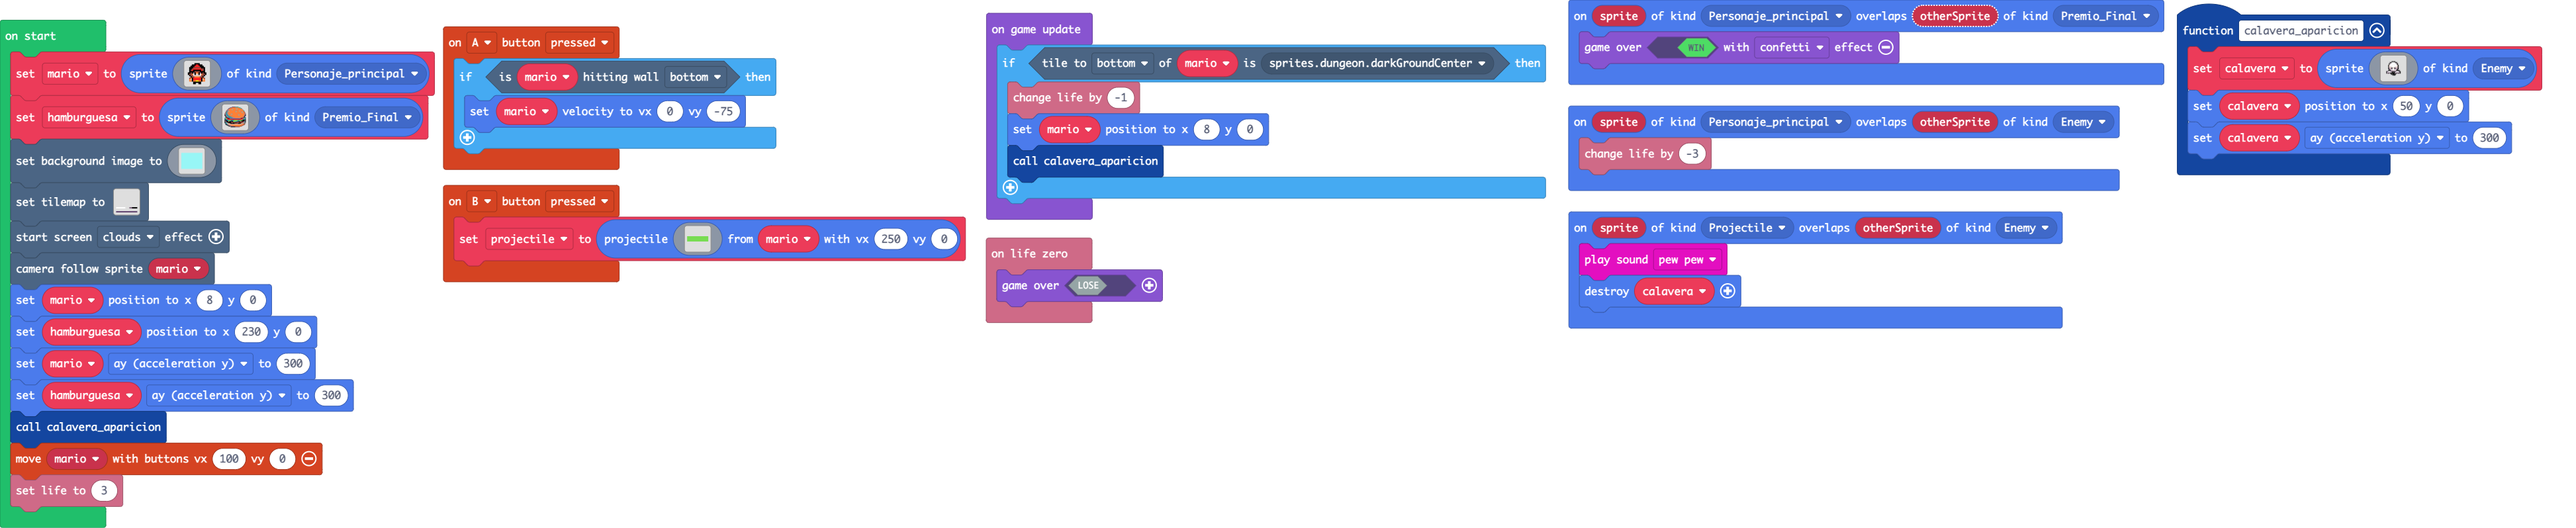
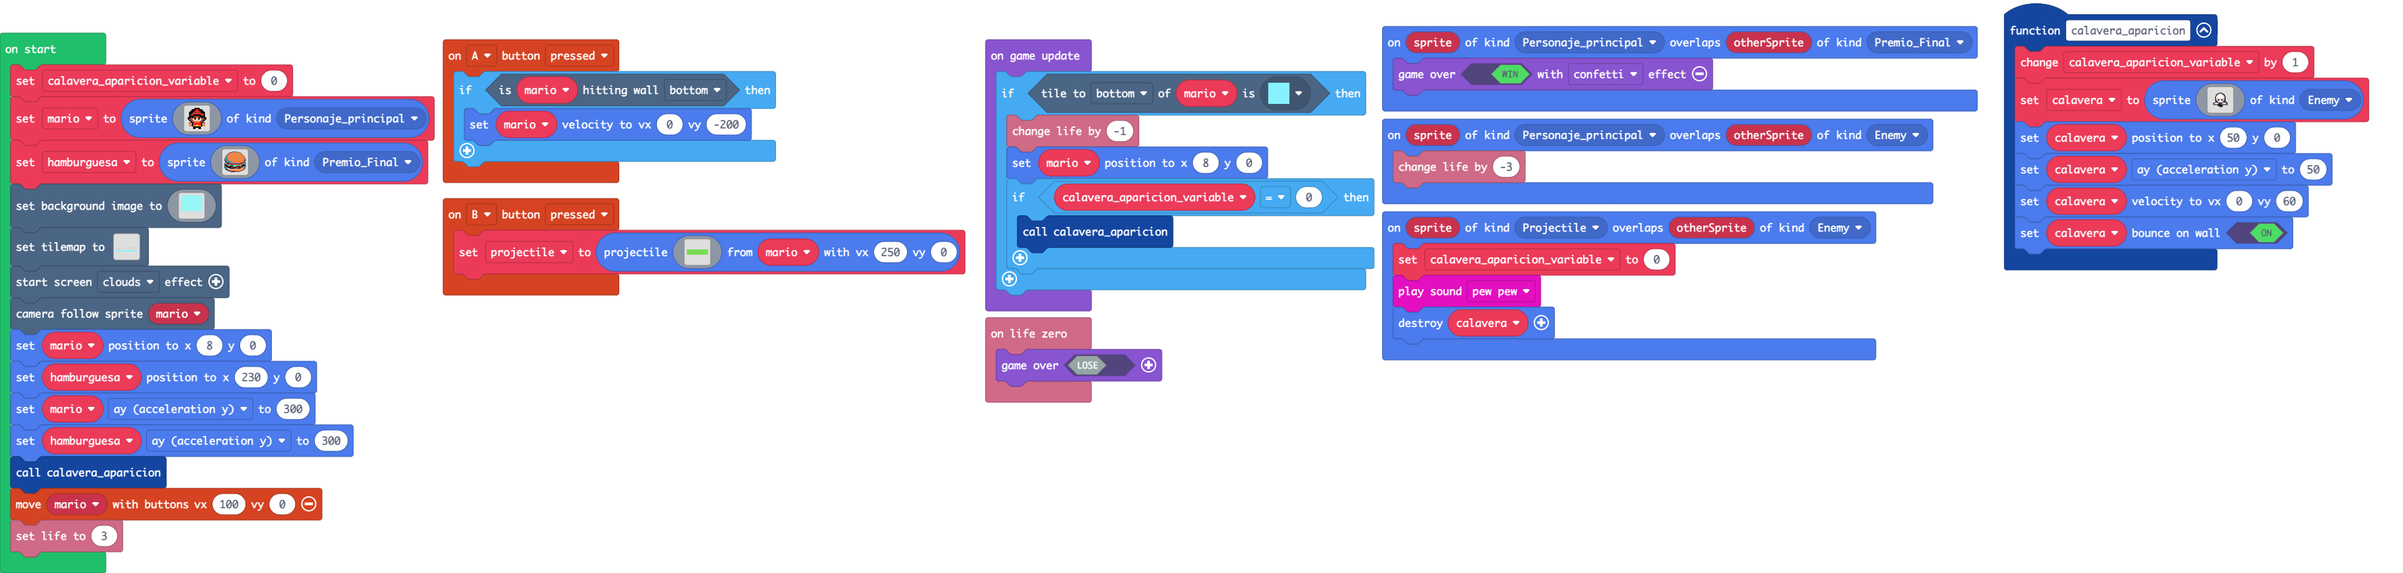
Update pxt.json, main.blocks, main.ts, tilemap.g.jres, tilemap.g.ts

diff --git a/main.ts b/main.ts
@@ -15,6 +15,7 @@ controller.B.onEvent(ControllerButtonEvent.Pressed, function () {
         `, mario, 250, 0)
 })
 function calavera_aparicion () {
+    calavera_aparicion_variable += 1
     calavera = sprites.create(img`
         ........................
         ........................
@@ -42,23 +43,28 @@ function calavera_aparicion () {
         ........................
         `, SpriteKind.Enemy)
     calavera.setPosition(50, 0)
-    calavera.ay = 300
+    calavera.ay = 50
+    calavera.setVelocity(0, 60)
+    calavera.setBounceOnWall(true)
 }
 controller.A.onEvent(ControllerButtonEvent.Pressed, function () {
     if (mario.isHittingTile(CollisionDirection.Bottom)) {
-        mario.setVelocity(0, -75)
+        mario.setVelocity(0, -200)
     }
 })
 info.onLifeZero(function () {
     game.over(false)
 })
 sprites.onOverlap(SpriteKind.Projectile, SpriteKind.Enemy, function (sprite, otherSprite) {
+    calavera_aparicion_variable = 0
     music.pewPew.play()
     calavera.destroy()
 })
 let calavera: Sprite = null
 let projectile: Sprite = null
 let mario: Sprite = null
+let calavera_aparicion_variable = 0
+calavera_aparicion_variable = 0
 mario = sprites.create(img`
     . . . . . . f f f f . . . . . . 
     . . . . f f f 2 2 f f f . . . . 
@@ -232,6 +238,46 @@ scene.setBackgroundImage(img`
     9999999999999999999999999999999999999999999999999999999999999999999999999999999999999999999999999999999999999999999999999999999999999999999999999999999999999999
     9999999999999999999999999999999999999999999999999999999999999999999999999999999999999999999999999999999999999999999999999999999999999999999999999999999999999999
     9999999999999999999999999999999999999999999999999999999999999999999999999999999999999999999999999999999999999999999999999999999999999999999999999999999999999999
+    ................................................................................................................................................................
+    ................................................................................................................................................................
+    ................................................................................................................................................................
+    ................................................................................................................................................................
+    ................................................................................................................................................................
+    ................................................................................................................................................................
+    ................................................................................................................................................................
+    ................................................................................................................................................................
+    ................................................................................................................................................................
+    ................................................................................................................................................................
+    ................................................................................................................................................................
+    ................................................................................................................................................................
+    ................................................................................................................................................................
+    ................................................................................................................................................................
+    ................................................................................................................................................................
+    ................................................................................................................................................................
+    ................................................................................................................................................................
+    ................................................................................................................................................................
+    ................................................................................................................................................................
+    ................................................................................................................................................................
+    ................................................................................................................................................................
+    ................................................................................................................................................................
+    ................................................................................................................................................................
+    ................................................................................................................................................................
+    ................................................................................................................................................................
+    ................................................................................................................................................................
+    ................................................................................................................................................................
+    ................................................................................................................................................................
+    ................................................................................................................................................................
+    ................................................................................................................................................................
+    ................................................................................................................................................................
+    ................................................................................................................................................................
+    ................................................................................................................................................................
+    ................................................................................................................................................................
+    ................................................................................................................................................................
+    ................................................................................................................................................................
+    ................................................................................................................................................................
+    ................................................................................................................................................................
+    ................................................................................................................................................................
+    ................................................................................................................................................................
     `)
 tiles.setTilemap(tilemap`level1`)
 effects.clouds.startScreenEffect()
@@ -244,9 +290,11 @@ calavera_aparicion()
 controller.moveSprite(mario, 100, 0)
 info.setLife(3)
 game.onUpdate(function () {
-    if (mario.tileKindAt(TileDirection.Bottom, sprites.dungeon.darkGroundCenter)) {
+    if (mario.tileKindAt(TileDirection.Bottom, assets.tile`myTile0`)) {
         info.changeLifeBy(-1)
         mario.setPosition(8, 0)
-        calavera_aparicion()
+        if (calavera_aparicion_variable == 0) {
+            calavera_aparicion()
+        }
     }
 })

diff --git a/tilemap.g.ts b/tilemap.g.ts
@@ -4,6 +4,8 @@ namespace myTiles {
     export const transparency16 = image.ofBuffer(hex``);
     //% fixedInstance jres blockIdentity=images._tile
     export const tile1 = image.ofBuffer(hex``);
+    //% fixedInstance jres blockIdentity=images._tile
+    export const tile2 = image.ofBuffer(hex``);
 
     helpers._registerFactory("tilemap", function(name: string) {
         switch(helpers.stringTrim(name)) {
@@ -26,25 +28,6 @@ namespace myTiles {
 . . . . . . . . . . . . . . . . 
 . . . . . . . . . . . . . . . . 
 `, [myTiles.transparency16], TileScale.Sixteen);
-            case "level1":
-            case "level1":return tiles.createTilemap(hex`1000100000000000000000000000000000000000000000000000000000000000000000000000000000000000000000000000000000000000000000000000000000000000000000000000000000000000000000000000000000000000000000000000000000000000000000000000000000000000000000000000000000000000000000000000000000000000000000000000000000000000000000000000000000000000000000000000000000000000000000000000000000000000000000000000000001010101010101000000020203030303000000000000000000000000000000000000000000000000000000000000000004040404040404040404040404040404`, img`
-. . . . . . . . . . . . . . . . 
-. . . . . . . . . . . . . . . . 
-. . . . . . . . . . . . . . . . 
-. . . . . . . . . . . . . . . . 
-. . . . . . . . . . . . . . . . 
-. . . . . . . . . . . . . . . . 
-. . . . . . . . . . . . . . . . 
-. . . . . . . . . . . . . . . . 
-. . . . . . . . . . . . . . . . 
-. . . . . . . . . . . . . . . . 
-. . . . . . . . . . . . . . . . 
-. . . . . . . . . . . . . . . . 
-2 2 2 2 2 2 2 . . . 2 2 2 2 2 2 
-. . . . . . . . . . . . . . . . 
-. . . . . . . . . . . . . . . . 
-2 2 2 2 2 2 2 2 2 2 2 2 2 2 2 2 
-`, [myTiles.transparency16,myTiles.tile1,sprites.builtin.oceanDepths0,sprites.builtin.oceanDepths9,sprites.dungeon.darkGroundCenter], TileScale.Sixteen);
             case "level3":
             case "level3":return tiles.createTilemap(hex`1000100000000000000000000000000000000000000000000000000000000000000000000000000000000000000000000000000000000000000000000000000000000000000000000000000000000000000000000000000000000000000000000000000000000000000000000000000000000000000000000000000000000000000000000000000000000000000000000000000000000000000000000000000000000000000000000000000000000000000000000000000000000000000000000000000000000000000000000000000000000000000000000000000000000000000000000000000000000000000000000000000000000000000000000000000000000000`, img`
 . . . . . . . . . . . . . . . . 
@@ -83,6 +66,16 @@ namespace myTiles {
 . . . . . . . . . . . . . . . . 
 . . . . . . . . . . . . . . . . 
 `, [myTiles.transparency16], TileScale.Sixteen);
+            case "level1":
+            case "level1":return tiles.createTilemap(hex`1000070000000000000000000000000000000000000000000000000000000000000000000000000000000000000000000000000000000000000000000000000000000000010101010101000000000101010101010000000000000000000000000000000002020202020202020202020202020202`, img`
+. . . . . . . . . . . . . . . . 
+. . . . . . . . . . . . . . . . 
+. . . . . . . . . . . . . . . . 
+. . . . . . . . . . . . . . . . 
+2 2 2 2 2 2 . . . . 2 2 2 2 2 2 
+. . . . . . . . . . . . . . . . 
+2 2 2 2 2 2 2 2 2 2 2 2 2 2 2 2 
+`, [myTiles.transparency16,sprites.castle.tilePath5,myTiles.tile2], TileScale.Sixteen);
         }
         return null;
     })
@@ -92,6 +85,8 @@ namespace myTiles {
             case "transparency16":return transparency16;
             case "myTile":
             case "tile1":return tile1;
+            case "myTile0":
+            case "tile2":return tile2;
         }
         return null;
     })
